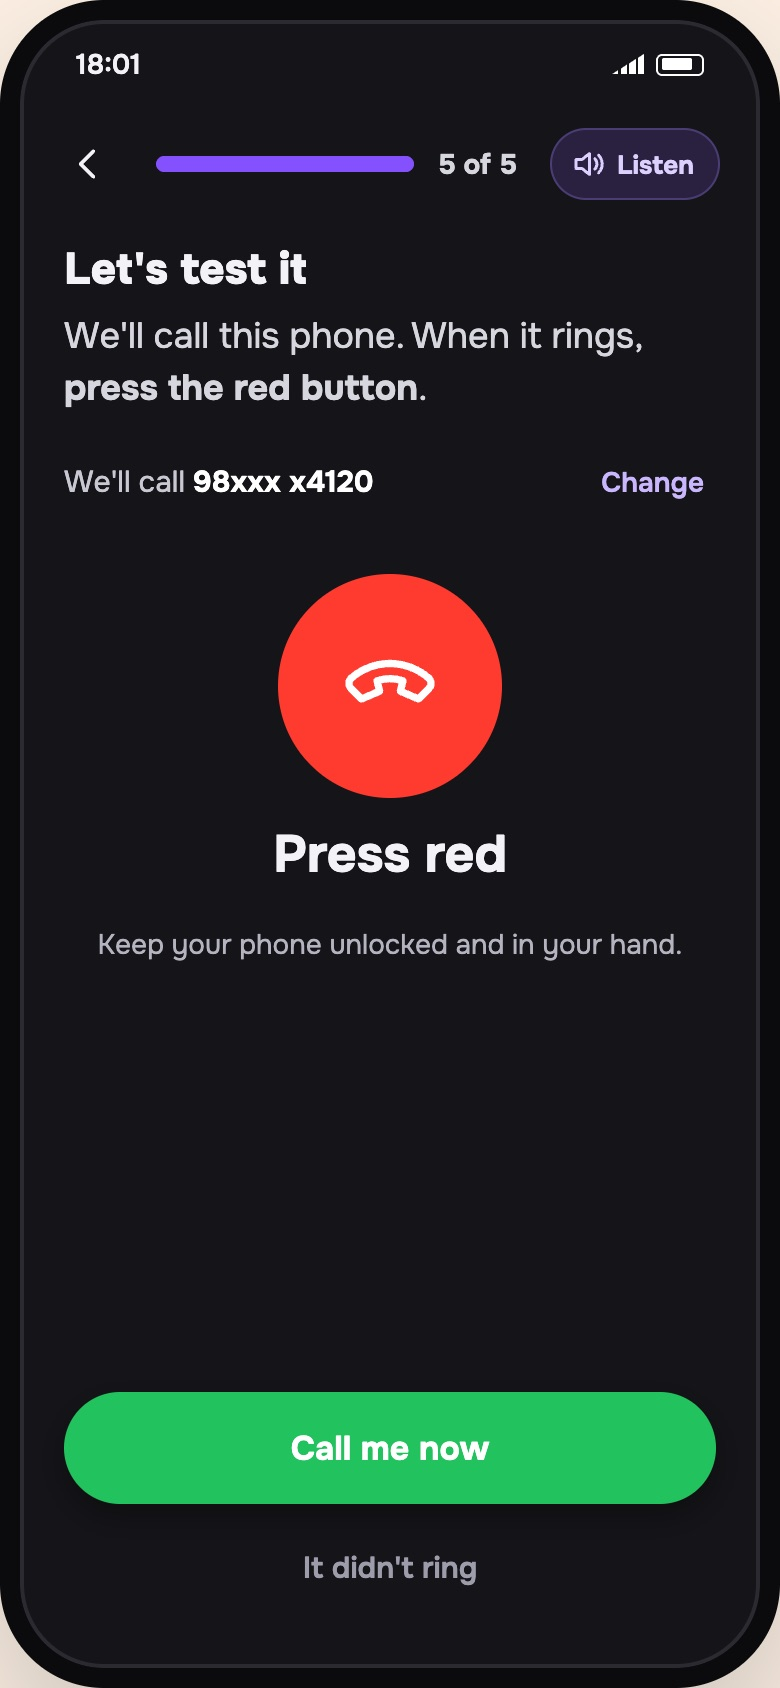
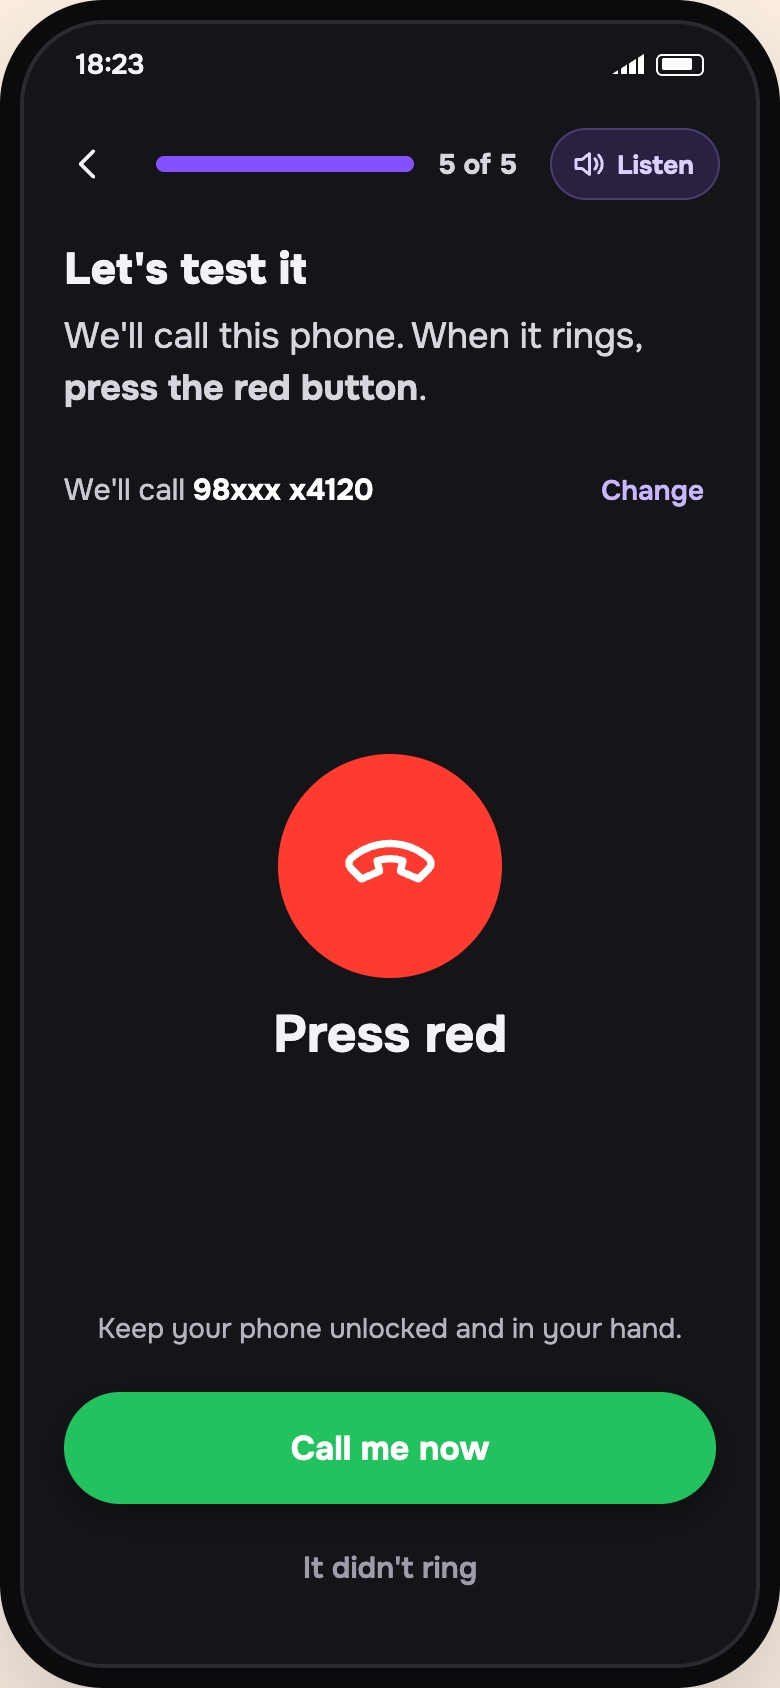
No tint inside iPhone Settings; centre the test-call hero

diff --git a/site/onboarding/style.css b/site/onboarding/style.css
@@ -559,3 +559,8 @@ h2{font-size:22px;line-height:1.2;margin:0 0 8px;font-weight:800}
 .tt{display:flex;gap:8px;margin-top:8px}
 .tt .pill-sm{min-height:34px;padding:6px 12px;font-size:13px}
 .wrows{gap:10px}.wrow p{font-size:14.5px}.rings{margin-top:14px;font-size:16px}
+/* no tint inside Apple's Settings: an app can't do that */
+.ios-row.target{background:#fff}
+/* test screen: centre the red-button hero in the free space */
+.body:has(.hero-red){display:flex;flex-direction:column}
+.hero-red{margin:auto 0;padding:24px 0}
